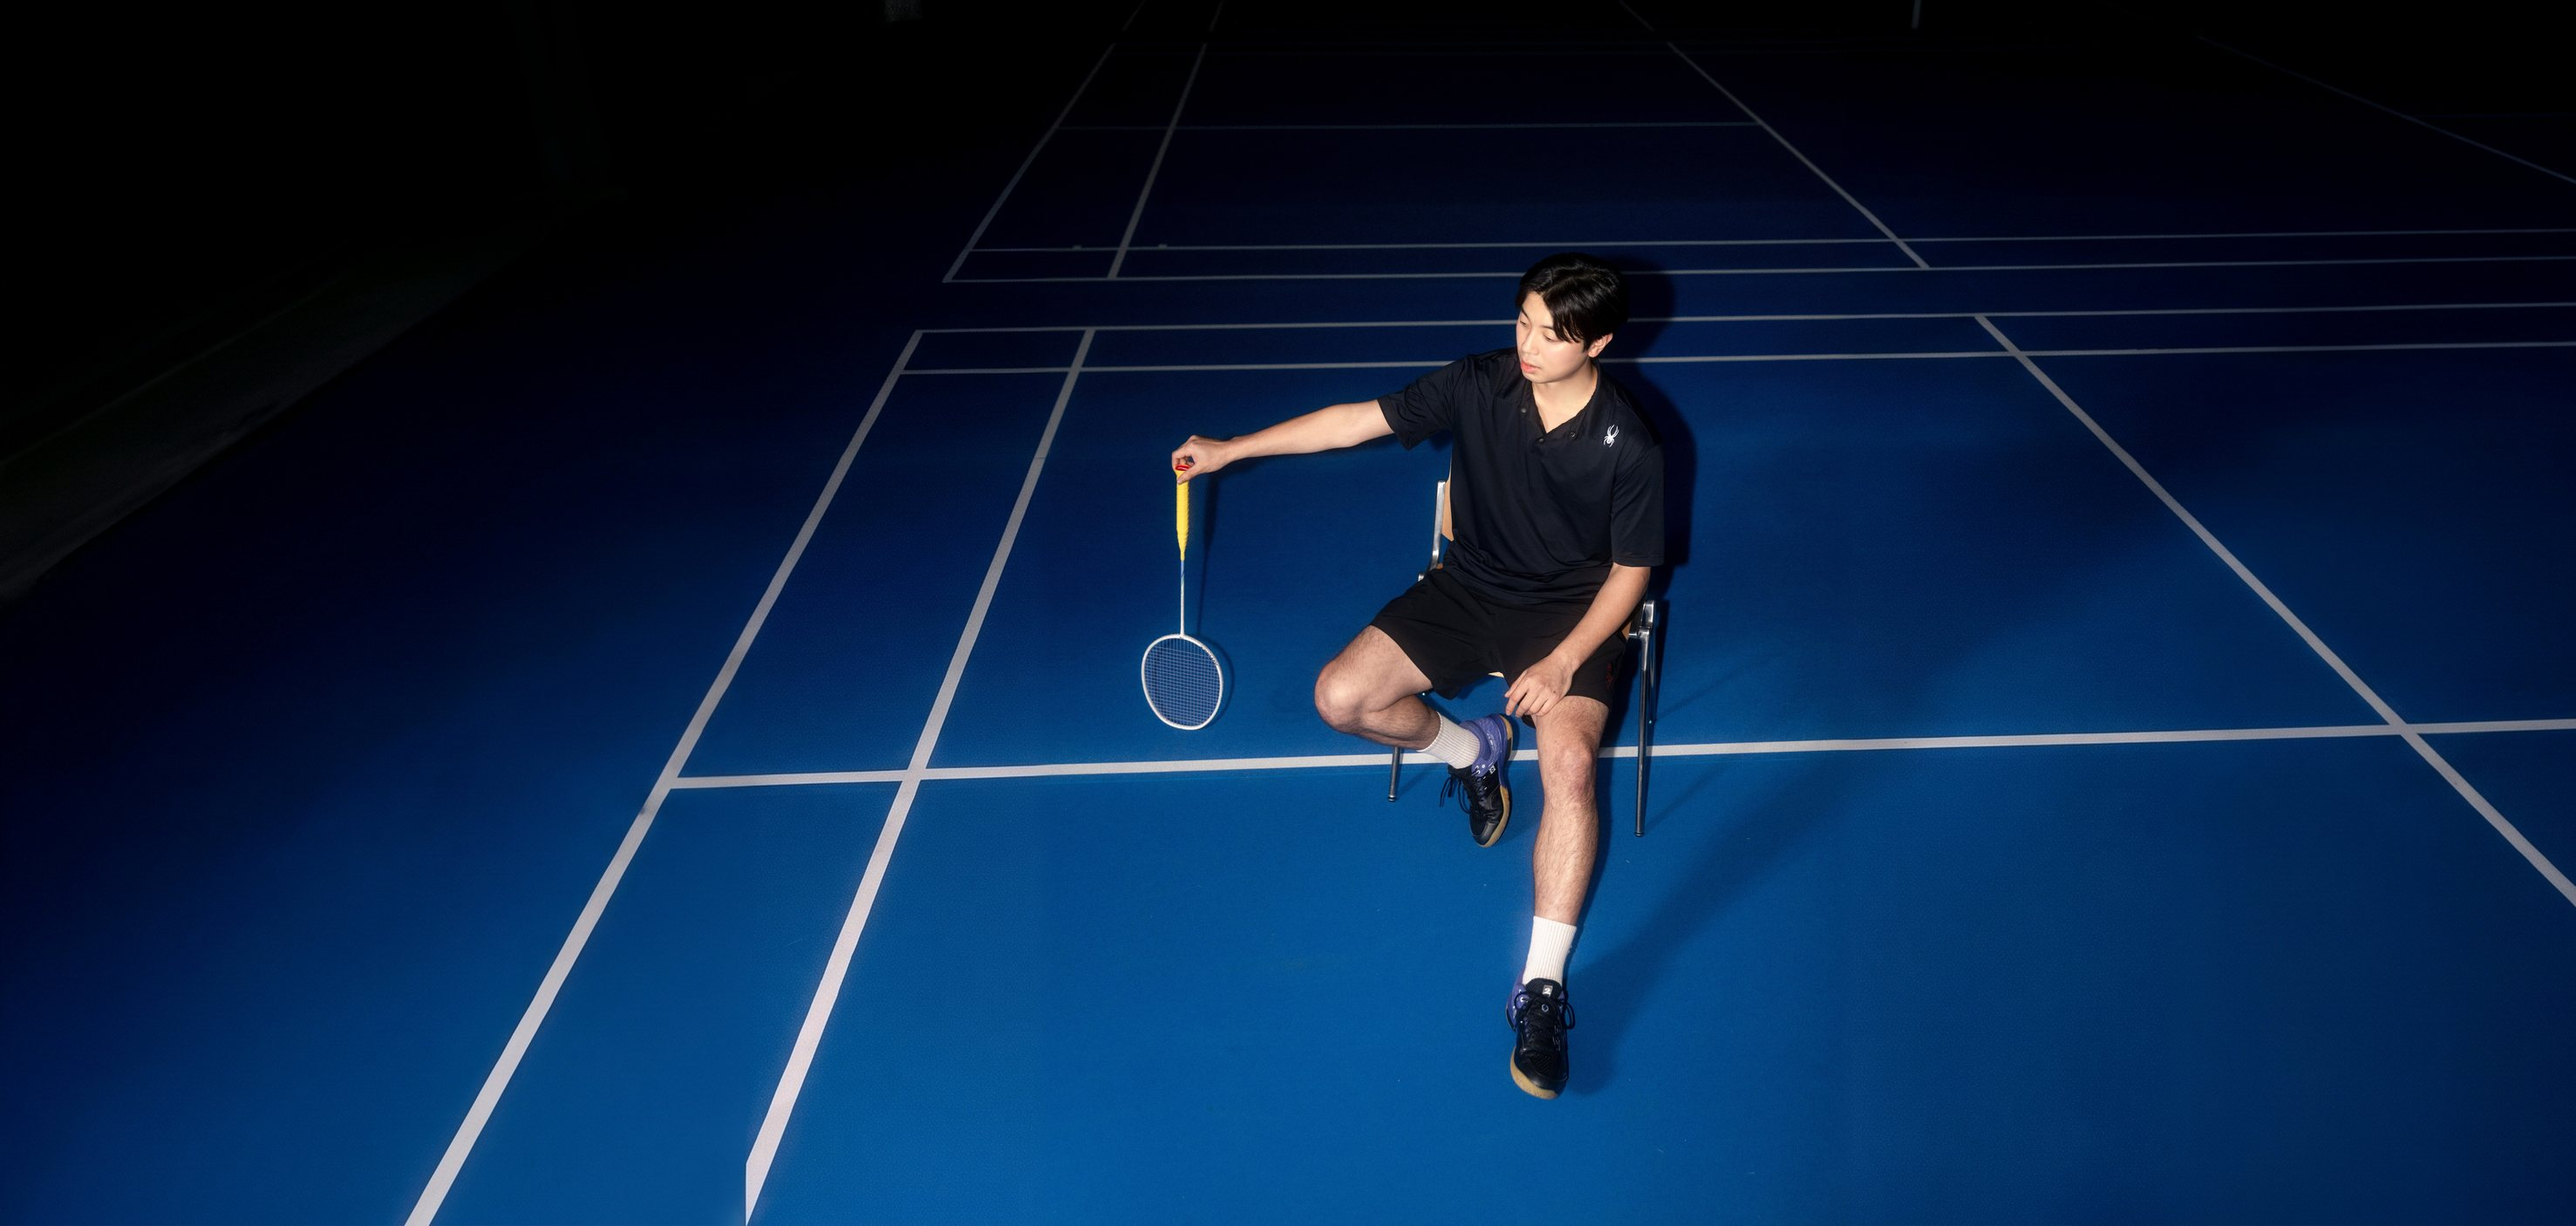
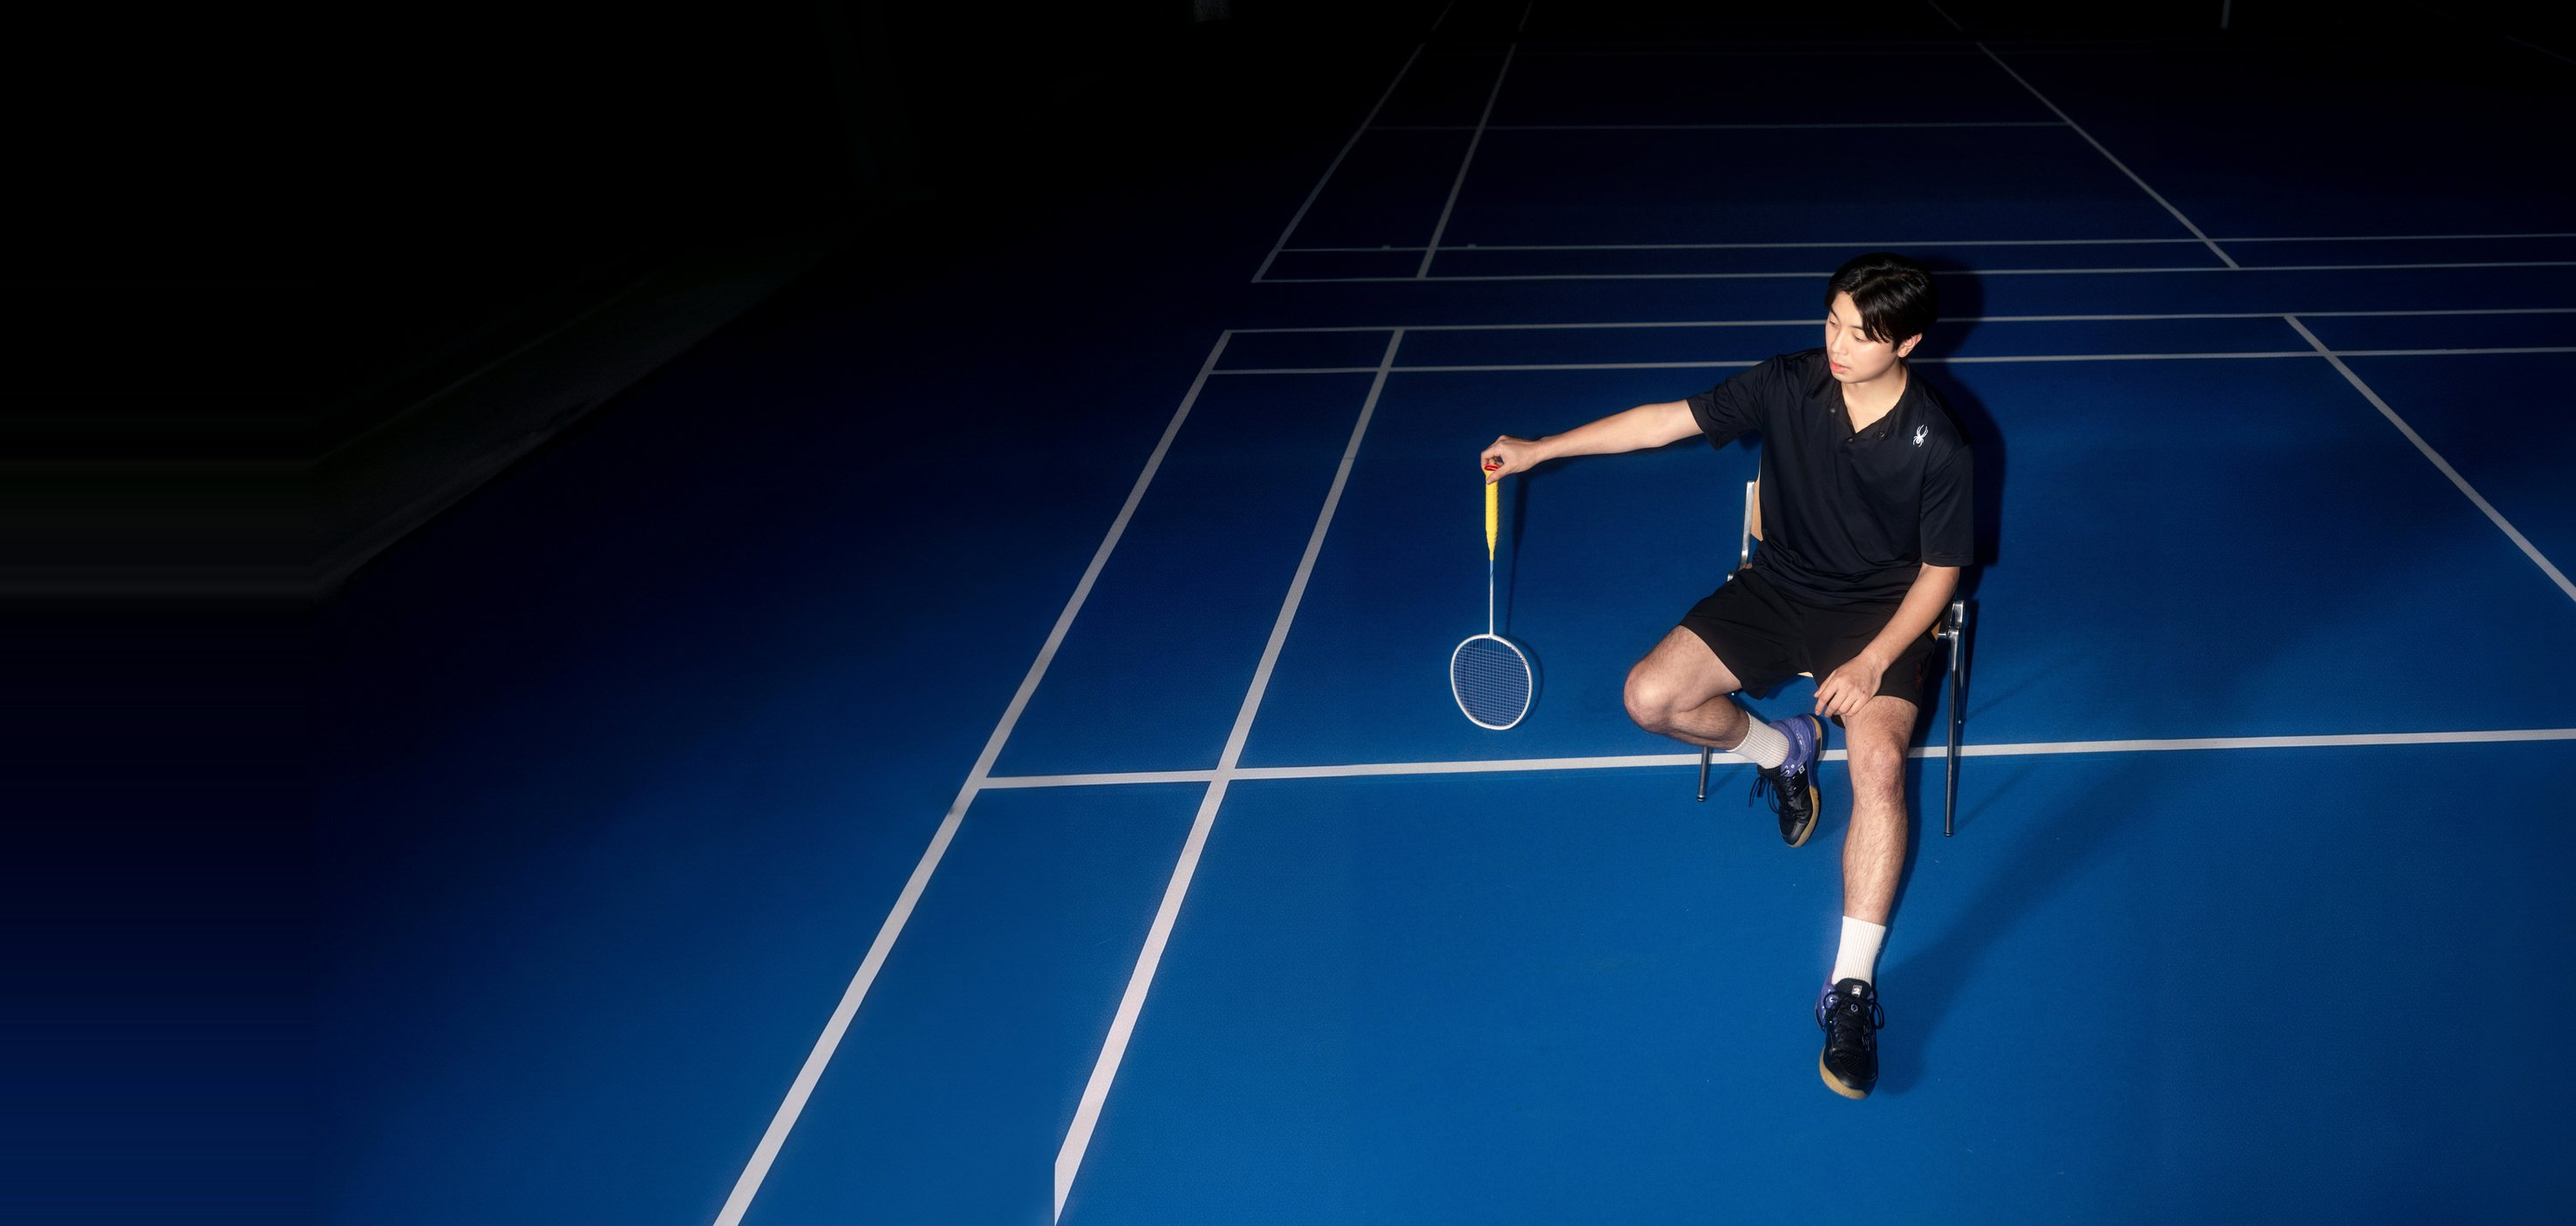
배드민턴 [레슨] 머리 사진: 사람을 오른쪽으로(머리 x 0.60 → 0.72, 제목 글자와 띄움) — 왼쪽 어두운 가장자리 늘려 다시 자름, 좁은 화면도 오른쪽(70%), style.css?v=20261023d

diff --git a/assets/style.css b/assets/style.css
@@ -90,11 +90,11 @@ a{color:inherit;text-decoration:none}
 /* 배드민턴 머리 사진 — 탭 따라 [대관] / [레슨] 사진 하나만 (badminton.html data-hero, main.js 탭 show) */
 .page-hero .bd-pic-lesson,.page-hero[data-hero="lesson"] .bd-pic-rental{display:none}
 .page-hero[data-hero="lesson"] .bd-pic-lesson{display:inline}
-/* 레슨 사진 = 의자에 앉은 코치 전신(2026-10-23 "사이즈 줄이고 전체 다 나오게") — 넓은 사진 2.1:1(머리 x 0.60, 사람 높이 약 68%), 좁은 사진 1.2:1(사람 x 0.6).
+/* 레슨 사진 = 의자에 앉은 코치 전신(2026-10-23 "사이즈 줄이고 전체 다 나오게") — 넓은 사진 2.1:1(머리 x 0.72 — "글자에 붙어 있어 오른쪽으로", 사람 높이 약 68%), 좁은 사진 1.2:1(사람 x 0.68).
    넓은 화면은 아래쪽을 조금 더 보여(55%) 1920px 처럼 납작한 화면에서도 발까지, 머리는 메뉴 아래 */
-.page-hero img.bd-hero.bd-hero-lesson{object-position:60% 55%}
-@media (max-width:950px),(max-aspect-ratio:129/100){.page-hero img.bd-hero.bd-hero-lesson{object-position:60% 50%}}
-@media (max-width:640px){.page-hero img.bd-hero.bd-hero-lesson{object-position:60% 50%}}
+.page-hero img.bd-hero.bd-hero-lesson{object-position:72% 55%}
+@media (max-width:950px),(max-aspect-ratio:129/100){.page-hero img.bd-hero.bd-hero-lesson{object-position:70% 50%}}
+@media (max-width:640px){.page-hero img.bd-hero.bd-hero-lesson{object-position:70% 50%}}
 
 /* ---------- SECTION ---------- */
 section{padding:120px 0}

diff --git a/badminton.html b/badminton.html
@@ -10,7 +10,7 @@
 <link rel="preconnect" href="https://fonts.gstatic.com" crossorigin>
 <link href="https://fonts.googleapis.com/css2?family=Anton&family=Montserrat:wght@600;700;800&family=Inter:wght@400;500;600;700&display=swap" rel="stylesheet">
 <link rel="stylesheet" href="https://cdn.jsdelivr.net/gh/orioncactus/pretendard@v1.3.9/dist/web/static/pretendard.min.css">
-<link rel="stylesheet" href="assets/style.css?v=20261023c">
+<link rel="stylesheet" href="assets/style.css?v=20261023d">
 <link rel="stylesheet" href="assets/booking.css?v=20261023r">
 </head>
 <body data-page="badminton">
@@ -39,8 +39,8 @@
     <img class="bd-hero" src="images/hero-badminton-court.jpg?v=3" alt="파란 배드민턴 코트에 앉아 라켓을 든 선수">
   </picture>
   <picture class="bd-pic bd-pic-lesson">
-    <source media="(max-width:950px), (max-aspect-ratio:129/100)" srcset="images/hero-badminton-lesson-narrow.jpg?v=4">
-    <img class="bd-hero bd-hero-lesson" src="images/hero-badminton-lesson.jpg?v=4" alt="파란 배드민턴 코트에서 의자에 앉아 라켓을 든 코치" loading="lazy">
+    <source media="(max-width:950px), (max-aspect-ratio:129/100)" srcset="images/hero-badminton-lesson-narrow.jpg?v=5">
+    <img class="bd-hero bd-hero-lesson" src="images/hero-badminton-lesson.jpg?v=5" alt="파란 배드민턴 코트에서 의자에 앉아 라켓을 든 코치" loading="lazy">
   </picture>
   <div class="wrap">
     <div class="eyebrow">THE SQUARE BADMINTON</div>

diff --git a/yoga-apply.html b/yoga-apply.html
@@ -11,7 +11,7 @@
 <link rel="preconnect" href="https://fonts.gstatic.com" crossorigin>
 <link href="https://fonts.googleapis.com/css2?family=Anton&family=Montserrat:wght@600;700;800&family=Inter:wght@400;500;600;700&display=swap" rel="stylesheet">
 <link rel="stylesheet" href="https://cdn.jsdelivr.net/gh/orioncactus/pretendard@v1.3.9/dist/web/static/pretendard.min.css">
-<link rel="stylesheet" href="assets/style.css?v=20261023c">
+<link rel="stylesheet" href="assets/style.css?v=20261023d">
 </head>
 <body>
 <!-- 요가는 2026-10-20 운영 종료 — 예전 링크·즐겨찾기가 404 가 나지 않게 남긴 안내 페이지 (이전 페이지 = 태그 yoga-archive-20261020) -->

diff --git a/yoga.html b/yoga.html
@@ -11,7 +11,7 @@
 <link rel="preconnect" href="https://fonts.gstatic.com" crossorigin>
 <link href="https://fonts.googleapis.com/css2?family=Anton&family=Montserrat:wght@600;700;800&family=Inter:wght@400;500;600;700&display=swap" rel="stylesheet">
 <link rel="stylesheet" href="https://cdn.jsdelivr.net/gh/orioncactus/pretendard@v1.3.9/dist/web/static/pretendard.min.css">
-<link rel="stylesheet" href="assets/style.css?v=20261023c">
+<link rel="stylesheet" href="assets/style.css?v=20261023d">
 </head>
 <body>
 <!-- 요가는 2026-10-20 운영 종료 — 예전 링크·즐겨찾기가 404 가 나지 않게 남긴 안내 페이지 (이전 페이지 = 태그 yoga-archive-20261020) -->

diff --git a/pickleball.html b/pickleball.html
@@ -10,7 +10,7 @@
 <link rel="preconnect" href="https://fonts.gstatic.com" crossorigin>
 <link href="https://fonts.googleapis.com/css2?family=Anton&family=Montserrat:wght@600;700;800&family=Inter:wght@400;500;600;700&display=swap" rel="stylesheet">
 <link rel="stylesheet" href="https://cdn.jsdelivr.net/gh/orioncactus/pretendard@v1.3.9/dist/web/static/pretendard.min.css">
-<link rel="stylesheet" href="assets/style.css?v=20261023c">
+<link rel="stylesheet" href="assets/style.css?v=20261023d">
 <link rel="stylesheet" href="assets/booking.css?v=20261023r">
 </head>
 <body data-page="pickleball">

diff --git a/badminton-apply.html b/badminton-apply.html
@@ -10,7 +10,7 @@
 <link rel="preconnect" href="https://fonts.gstatic.com" crossorigin>
 <link href="https://fonts.googleapis.com/css2?family=Anton&family=Montserrat:wght@600;700;800&family=Inter:wght@400;500;600;700&display=swap" rel="stylesheet">
 <link rel="stylesheet" href="https://cdn.jsdelivr.net/gh/orioncactus/pretendard@v1.3.9/dist/web/static/pretendard.min.css">
-<link rel="stylesheet" href="assets/style.css?v=20261023c">
+<link rel="stylesheet" href="assets/style.css?v=20261023d">
 </head>
 <body data-page="badminton" data-apply="badminton">
 

diff --git a/about.html b/about.html
@@ -10,7 +10,7 @@
 <link rel="preconnect" href="https://fonts.gstatic.com" crossorigin>
 <link href="https://fonts.googleapis.com/css2?family=Anton&family=Montserrat:wght@600;700;800&family=Inter:wght@400;500;600;700&display=swap" rel="stylesheet">
 <link rel="stylesheet" href="https://cdn.jsdelivr.net/gh/orioncactus/pretendard@v1.3.9/dist/web/static/pretendard.min.css">
-<link rel="stylesheet" href="assets/style.css?v=20261023c">
+<link rel="stylesheet" href="assets/style.css?v=20261023d">
 </head>
 <body data-page="about">
 

diff --git a/space.html b/space.html
@@ -10,7 +10,7 @@
 <link rel="preconnect" href="https://fonts.gstatic.com" crossorigin>
 <link href="https://fonts.googleapis.com/css2?family=Anton&family=Montserrat:wght@600;700;800&family=Inter:wght@400;500;600;700&display=swap" rel="stylesheet">
 <link rel="stylesheet" href="https://cdn.jsdelivr.net/gh/orioncactus/pretendard@v1.3.9/dist/web/static/pretendard.min.css">
-<link rel="stylesheet" href="assets/style.css?v=20261023c">
+<link rel="stylesheet" href="assets/style.css?v=20261023d">
 </head>
 <body data-page="space">
 

diff --git a/index.html b/index.html
@@ -10,7 +10,7 @@
 <link rel="preconnect" href="https://fonts.gstatic.com" crossorigin>
 <link href="https://fonts.googleapis.com/css2?family=Anton&family=Montserrat:wght@600;700;800&family=Inter:wght@400;500;600;700&display=swap" rel="stylesheet">
 <link rel="stylesheet" href="https://cdn.jsdelivr.net/gh/orioncactus/pretendard@v1.3.9/dist/web/static/pretendard.min.css">
-<link rel="stylesheet" href="assets/style.css?v=20261023c">
+<link rel="stylesheet" href="assets/style.css?v=20261023d">
 </head>
 <body data-page="home">
 
